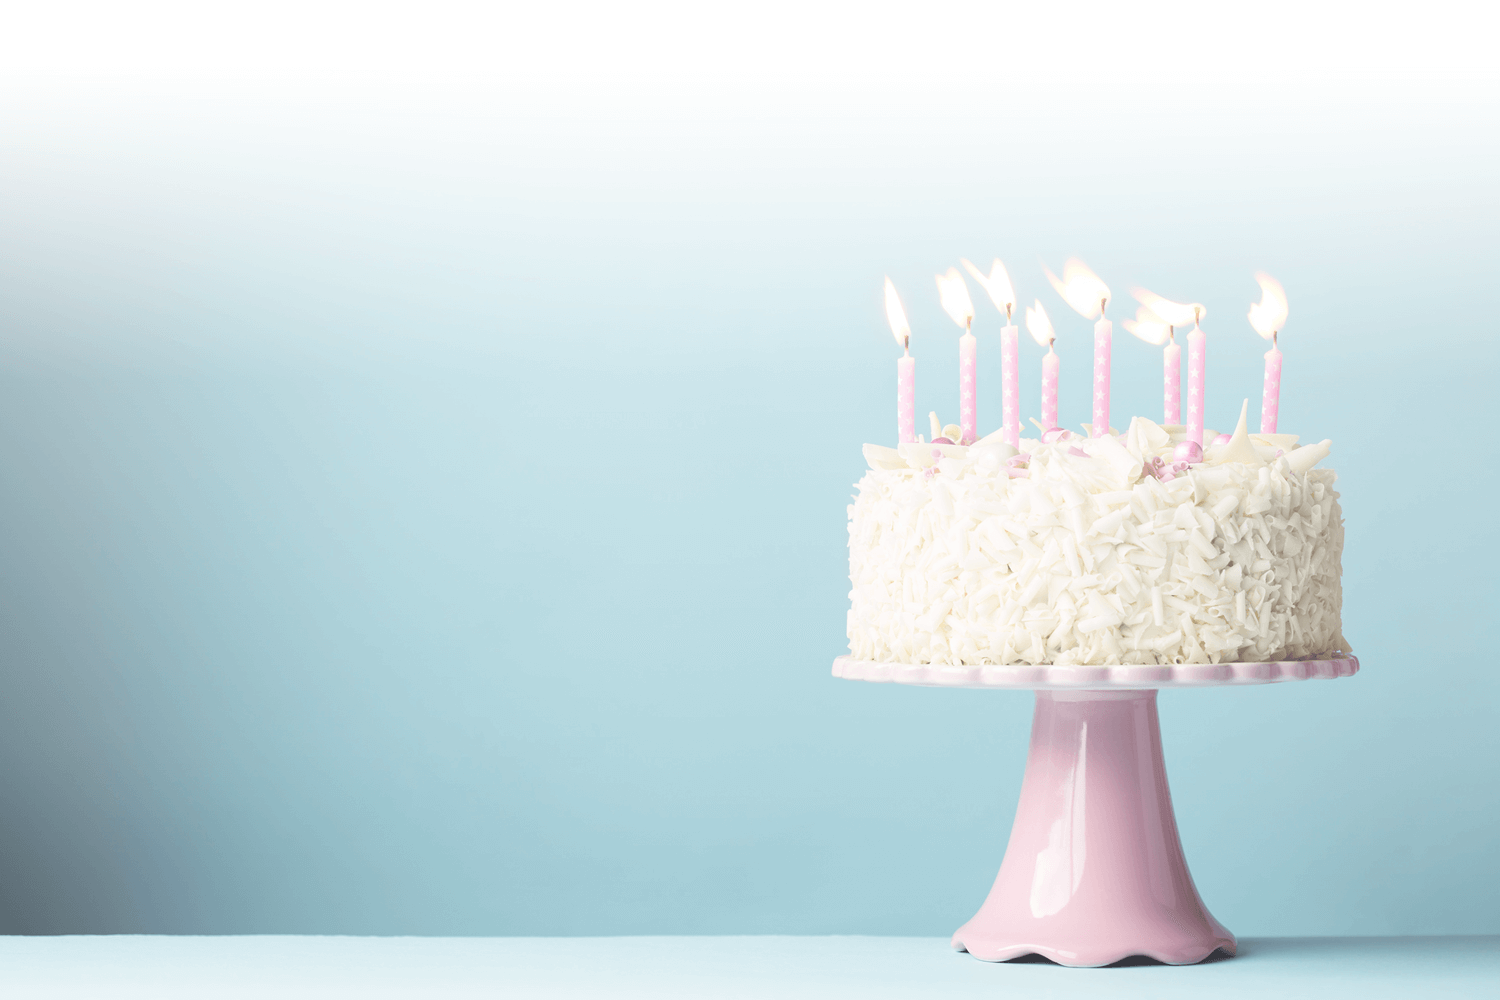
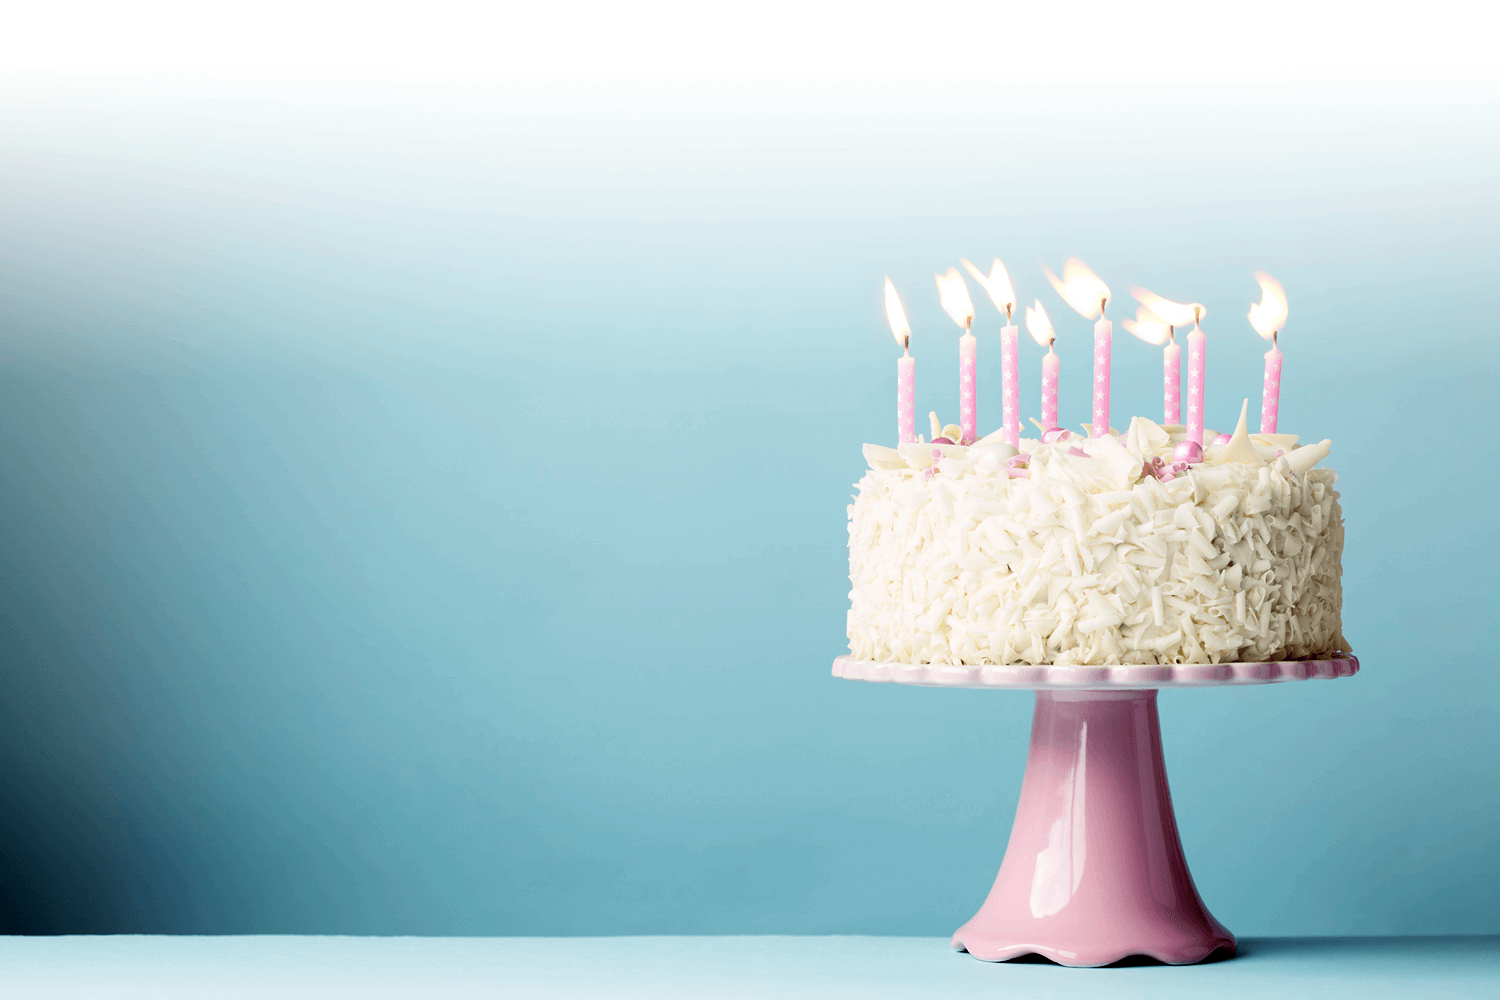
info and contrasterd events img

diff --git a/events.html b/events.html
@@ -77,9 +77,11 @@
 								</div>
 							</div>
 							<div class="col-md-push-3 col-xs-push-2  col-md-3 col-sm-4 col-xs-4 menu-contacts">
-								<p class="tel">8&nbsp;(906)&nbsp;096&nbsp;96&nbsp;74</p>
+								<p class="tel">8&nbsp;(915)&nbsp;313&nbsp;59&nbsp;95</p>
+								<p class="tel">+34&nbsp;646&nbsp;37&nbsp;42&nbsp;71</p>
+
 								<div class="share">
-									<a href="#"><i class="fa fa-facebook" aria-hidden="true"></i></a><a href="#"><i class="fa fa-instagram" aria-hidden="true"></i></a>
+									<a href="https://www.facebook.com/artur.ovanesyants"><i class="fa fa-facebook" aria-hidden="true"></i></a><a href="https://www.instagram.com/artovan/"><i class="fa fa-instagram" aria-hidden="true"></i></a>
 								</div>
 							</div>
 						</div>
@@ -124,7 +126,7 @@
 						</div>
 						<div class="col-md-12 col-xs-12">
 							<div class="texter">
-								<p><strong>Компания</strong> вправе отмечать юбилей в первый год работы;<br> <strong>18-летие</strong> празднуют как юбилей – путевка во взрослую жизнь;<br> <strong>Семь лет совместной жизни? </strong>Чем вам не юбилей!</p>
+								<p class="added"><strong>Компания</strong> вправе отмечать юбилей в первый год работы;<br> <strong>18-летие</strong> празднуют как юбилей – путевка во взрослую жизнь;<br> <strong>Семь лет совместной жизни? </strong>Чем вам не юбилей!</p>
 								<p><strong>А уж даты которым 50 и больше...</strong></p>
 								<p  class="statement">Всем здоровья и хорошего настроения!<br>
 									Мы рядом!

diff --git a/css/events.css b/css/events.css
@@ -18,7 +18,7 @@
     bottom: 0;
     left: 0;
     background-image: linear-gradient(to bottom, rgba(255, 255, 255, 0), white);
-    opacity: .6; }
+    opacity: .4; }
   .events h1 {
     margin: 0;
     padding: 0;
@@ -50,7 +50,7 @@
     bottom: 0;
     left: 0;
     background-image: linear-gradient(to bottom, rgba(255, 255, 255, 0), white), linear-gradient(to bottom, rgba(255, 255, 255, 0), white), linear-gradient(to bottom, rgba(255, 255, 255, 0), white);
-    opacity: .6; }
+    opacity: .2; }
   .texter p {
     font-size: 21px;
     text-align: center;
@@ -83,16 +83,20 @@
   color: #a88643;
   font-family: 'ArnoPro';
   font-weight: 100; }
+.anniversary .added {
+  margin-top: -25vh; }
 .anniversary .texter {
   background-image: url("../img/champagne_white.png"); }
-  .anniversary .texter .statement:after {
-    top: -20%;
-    right: -4vw;
-    font-weight: bold; }
-  .anniversary .texter .statement:before {
-    top: -20%;
-    left: -4vw;
-    font-weight: bold; }
+  .anniversary .texter .statement {
+    margin-top: 5vh; }
+    .anniversary .texter .statement:after {
+      top: -20%;
+      right: -4vw;
+      font-weight: bold; }
+    .anniversary .texter .statement:before {
+      top: -20%;
+      left: -4vw;
+      font-weight: bold; }
 
 .birthsday .texter {
   background-image: url("../img/cake_white.png"); }

diff --git a/scss/events.scss b/scss/events.scss
@@ -23,7 +23,7 @@
 
 
 	background-image: linear-gradient(to bottom,rgba(255, 255, 255, 0),white),;
-	opacity: .6; 
+	opacity: .4; 
   }
 	h1 {
 		margin: 0;
@@ -60,7 +60,7 @@ position: relative;
 
 
 	background-image: linear-gradient(to bottom,rgba(255, 255, 255, 0),white),linear-gradient(to bottom,rgba(255, 255, 255, 0),white),linear-gradient(to bottom,rgba(255, 255, 255, 0),white);
-	opacity: .6; 
+	opacity: .2; 
   }
 // 		&:before {
 //   display: block;
@@ -130,11 +130,15 @@ color:#a88643;
 				font-weight: 100;
 				
 	}
+.added {
+	margin-top: -25vh;
+}
 .texter {
 	background-image: url('../img/champagne_white.png');
 
 	.statement {
-	
+		margin-top: 5vh;
+
 &:after {
 
 top: -20%;
@@ -159,7 +163,6 @@ font-weight: bold;
 .birthsday .texter {
 	background-image: url('../img/cake_white.png');
 		.statement {
-	
 &:after {
 
 top: -20%;

diff --git a/index.html b/index.html
@@ -74,9 +74,11 @@
 								</div>
 							</div>
 							<div class="col-md-push-3 col-xs-push-2  col-md-3 col-sm-4 col-xs-4 menu-contacts ">
-								<p class="tel wheat">8&nbsp;(906)&nbsp;096&nbsp;96&nbsp;74</p>
+								<p class="tel wheat">8&nbsp;(915)&nbsp;313&nbsp;59&nbsp;95</p>
+								<p class="tel wheat">+34&nbsp;646&nbsp;37&nbsp;42&nbsp;71</p>
+
 								<div class="share">
-									<a href="#"><i class="fa fa-facebook wheat" aria-hidden="true"></i></a><a href="#"><i class="fa fa-instagram wheat" aria-hidden="true"></i></a>
+									<a href="https://www.facebook.com/artur.ovanesyants"><i class="fa fa-facebook wheat" aria-hidden="true"></i></a><a href="https://www.instagram.com/artovan/"><i class="fa fa-instagram wheat" aria-hidden="true"></i></a>
 								</div>
 							</div>
 						</div>

diff --git a/booking.html b/booking.html
@@ -77,9 +77,11 @@
 								</div>
 							</div>
 							<div class="col-md-push-3 col-xs-push-2  col-md-3 col-sm-4 col-xs-4 menu-contacts">
-								<p class="tel">8&nbsp;(906)&nbsp;096&nbsp;96&nbsp;74</p>
+								<p class="tel">8&nbsp;(915)&nbsp;313&nbsp;59&nbsp;95</p>
+								<p class="tel">+34&nbsp;646&nbsp;37&nbsp;42&nbsp;71</p>
+								
 								<div class="share">
-									<a href="#"><i class="fa fa-facebook" aria-hidden="true"></i></a><a href="#"><i class="fa fa-instagram" aria-hidden="true"></i></a>
+									<a href="https://www.facebook.com/artur.ovanesyants"><i class="fa fa-facebook" aria-hidden="true"></i></a><a href="https://www.instagram.com/artovan/"><i class="fa fa-instagram" aria-hidden="true"></i></a>
 								</div>
 							</div>
 						</div>

diff --git a/css/app.css b/css/app.css
@@ -198,10 +198,11 @@ body {
 
 .open-menu {
   background: transparent;
-  border: none; }
+  border: none;
+  margin-left: 2vh; }
   .open-menu:hover {
     background: rgba(255, 255, 255, 0.4);
-    color: black; }
+    color: white; }
 
 .menu-logo {
   max-width: 400px;

diff --git a/scss/app.scss b/scss/app.scss
@@ -325,9 +325,10 @@ body {
 .open-menu {
 	background: transparent;
 	border:none;
+	margin-left: 2vh;
 	&:hover{
 		background: rgba(255, 255, 255, .4);
-		color: black;
+		color: white;
 	}
 }
 .menu-logo {
